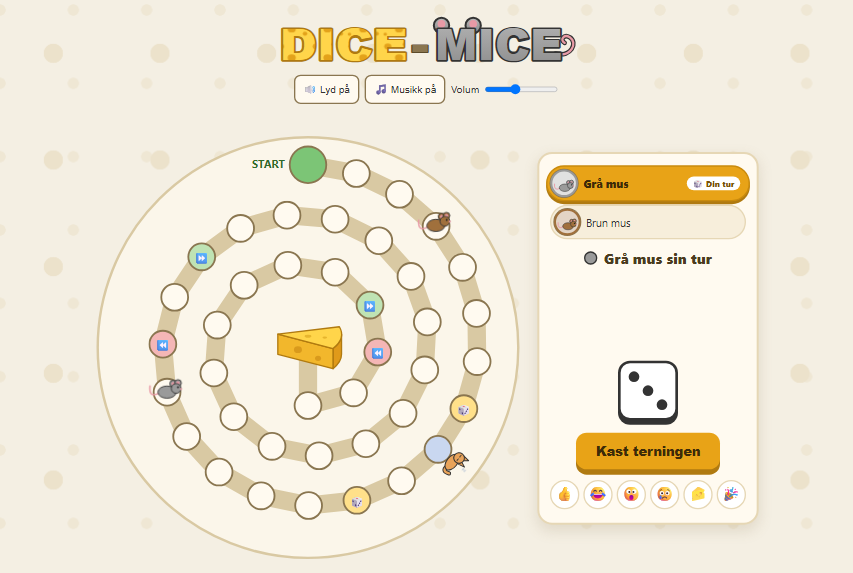
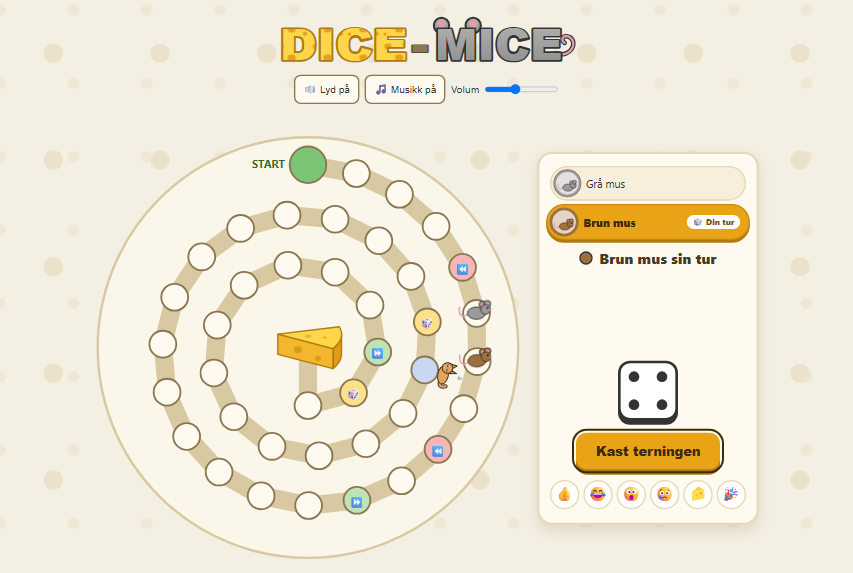
Museduell #51

diff --git a/CLAUDE.md b/CLAUDE.md
@@ -211,13 +211,11 @@ Ting jeg ikke hadde beskrevet, men som prototypen måtte ha en verdi for.
 - **Beige bakgrunn igjen** (issue #44) – tilbake til den beige fra før #38 (#f4efe3 med ostehull i #ece2cb og #efe7d4). Resten av stilen og tilgjengelighetsrettingene fra #35 er beholdt. Testet: BESTÅTT, `skjermbilder/44-*.png`.
 - **Dockerfile** (issue #52) – spillet kan kjøres i en container med nginx. Bare spillfilene er med. Sjekket med `docker build` og `docker run`: spillfilene og musikken gir 200, og `.git`, `CLAUDE.md` og `skjermbilder/` gir 404.
 - **Maler for issues og PR-er** (issue #26) – `oppgave.md`, `feil.md` og `pull_request_template.md` i `.github/`. github-flyt-skillen bruker de samme malene, og tester-subagenten kjøres bare når spillet kan være påvirket. Malene vises på GitHub når de ligger i `main`.
+- **Museduell** (issue #51) – lander en mus der en annen mus står, blir det duell. Hver spiller kaster sin egen terning: høyest går 2 felt frem, lavest 2 tilbake, og likt gir nytt kast. Musene ser sint på hverandre uten å røre hverandre, og vinneren hopper av glede. Detaljene står under «Museduell». Testet med `tester` (BESTÅTT, runde 4) og `tilgjengelighet` (funnene fra duellen er rettet). `skjermbilder/51-*.png`.
 
 ## Pågår og planlagt
 
-- **Museduell** (issue #51) – pågår. Lander en mus på et vanlig felt der en annen mus står, blir det duell. Begge kaster hver sin terning (i musens farge) samtidig, i en boks over brettet. Høyest går 2 felt frem, lavest 2 felt tilbake, og likt gir nytt kast. Musene er sinte under duellen, og vinneren hopper av glede. Snakkeboblen sier hvem som vant, og duellen har egen lyd. Valgene jeg har tatt, står under «Museduell» i «Valg i prototypen». Testes med `tester` og `tilgjengelighet`.
-  - **Status (lagret 21.11.2026, branch `51-museduell`, ikke merget):** I tillegg til issuet ønsket jeg at hver spiller kaster sin egen terning, og at musene ser på hverandre uten å røre hverandre. `tester` er BESTÅTT (runde 3). `tilgjengelighet` fant ingenting som hindrer bruk, og de tre 🟠-funnene fra duellen er rettet etterpå: opplesning av duell og motstander, opplesning av likt, og boksen ligger oppe eller nede så den ikke dekker musene. Det samme gjelder tre 🟡-funn: navnet på terningen mens den ruller, tomme terninger etter likt, og ingen dobbel opplesning.
-  - **Gjenstår:** kjøre `tester` på nytt for disse siste rettingene, og så commit, PR til `test`, merge og PR fra `test` til `main`.
-  - **Venter på svar fra meg** (eldre funn, ikke fra duellen, kan bli egne issues): «Din tur»-pillen blir for bred på telefon med veldig brede navn (siden scroller sidelengs). Vinneren har fortsatt «Din tur» / «(har tur)» etter seier. Tekstene inni brett-SVG-en bør ha `aria-hidden`. Startskjermen mangler h2-overskrifter. Lite (12 px) skrift i `.hendelse.minst`.
+- **Venter på svar fra meg** (eldre funn fra `tilgjengelighet` i issue #51, ikke fra duellen, kan bli egne issues): «Din tur»-pillen blir for bred på telefon med veldig brede navn (siden scroller sidelengs). Vinneren har fortsatt «Din tur» / «(har tur)» etter seier. Tekstene inni brett-SVG-en bør ha `aria-hidden`. Startskjermen mangler h2-overskrifter. Lite (12 px) skrift i `.hendelse.minst`.
 
 ## Senere (ikke lag før jeg ber om det)
 
